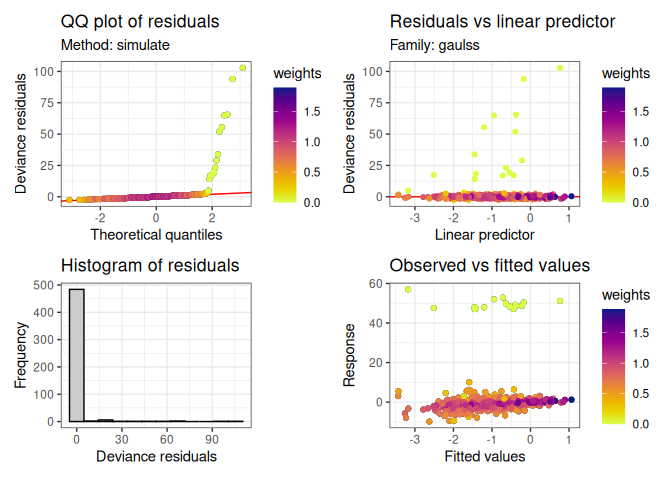
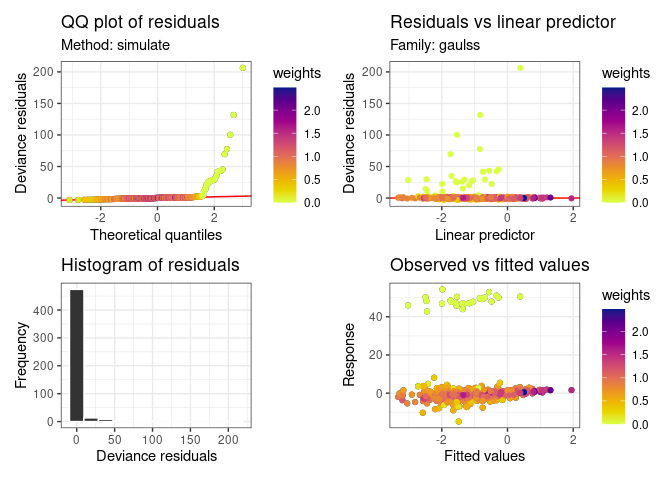
fixing up date on description and then updating readme github

diff --git a/README.md b/README.md
@@ -43,7 +43,7 @@ Simulate data from a double linear model with (average 5%) outliers in
 the response variable
 
 ``` r
-set.seed(062026)
+set.seed(112026)
 n <- 500
 p <- 10
 H <- abs(outer(1:p, 1:p, "-"))
@@ -65,7 +65,7 @@ Y[out==1] <- Y[out==1] + 50
 hist(Y, breaks = 20)
 ```
 
-<img src="man/figures/README-unnamed-chunk-3-1.png" width="100%" />
+<img src="man/figures/README-unnamed-chunk-3-1.png" alt="" width="100%" />
 
 Fit gamma divergence double linear models, select the gamma tuning
 parameter via cross-validation
@@ -93,7 +93,7 @@ runcv <- cv_gddlm(mu_formula = make_mu_formula,
 fit_gddglm_choosegamma <- gddlm(mu_formula = make_mu_formula,
                                 sigma_formula = make_sigma_formula,
                                 data = data.frame(response = Y, X[,-1]),
-                                gamma_tuning = runcv$gamma_optimal)
+                                gamma_tuning = runcv$gamma_optimal_mean)
 ```
 
 Demonstration of some of the functions available in the package
@@ -104,84 +104,84 @@ fit_gddglm_choosegamma %>%
 #> List of 16
 #>  $ call                : language gddlm(mu_formula = make_mu_formula, sigma_formula = make_sigma_formula,      data = data.frame(response = Y, X[, | __truncated__
 #>  $ mu_formula          :Class 'formula'  language response ~ X1 + X2 + X3 + X4 + X5 + X6 + X7 + X8 + X9 + X10
-#>   .. ..- attr(*, ".Environment")=<environment: 0x6510dee4e950> 
+#>   .. ..- attr(*, ".Environment")=<environment: 0x5f8ebbddca80> 
 #>  $ sigma_formula       :Class 'formula'  language ~X1 + X2 + X3 + X4 + X5 + X6 + X7 + X8 + X9 + X10
-#>   .. ..- attr(*, ".Environment")=<environment: 0x6510deeb18b8> 
+#>   .. ..- attr(*, ".Environment")=<environment: 0x5f8ebbe0c708> 
 #>  $ model               :'data.frame':    500 obs. of  11 variables:
-#>   ..$ response: num [1:500] -1.58 10.06 -1.85 -3.26 -2.56 ...
-#>   ..$ X1      : num [1:500] 1.892 0.674 -0.583 0.789 1.244 ...
-#>   ..$ X2      : num [1:500] 0.995 1.229 -0.407 -0.667 0.757 ...
-#>   ..$ X3      : num [1:500] 1.177 0.14 0.368 -0.295 0.785 ...
-#>   ..$ X4      : num [1:500] 0.873 -1.108 -0.143 -1.546 1.28 ...
-#>   ..$ X5      : num [1:500] 1.118 -0.349 0.742 -1.604 1.253 ...
-#>   ..$ X6      : num [1:500] 1.993 0.897 -0.146 -1.317 0.848 ...
-#>   ..$ X7      : num [1:500] 2.237 0.479 -0.235 -1.316 1.426 ...
-#>   ..$ X8      : num [1:500] 1.53 -1.364 -0.568 -1.973 -0.406 ...
-#>   ..$ X9      : num [1:500] 0.978 -0.65 -0.746 -2.823 -1.585 ...
-#>   ..$ X10     : num [1:500] 1.277 -2.057 0.391 -2.11 -0.594 ...
-#>  $ mu_coefficients     : Named num [1:11] -1.008 -0.714 0.795 -0.767 0.628 ...
+#>   ..$ response: num [1:500] -2.361 -2.709 -0.932 -0.971 -1.028 ...
+#>   ..$ X1      : num [1:500] 1.2748 1.0061 0.0843 0.3459 -0.8023 ...
+#>   ..$ X2      : num [1:500] 1.007 0.773 -0.757 -0.763 0.522 ...
+#>   ..$ X3      : num [1:500] 0.92 1.483 -0.559 -1.259 1.073 ...
+#>   ..$ X4      : num [1:500] 1.596 1.324 -1.009 -0.748 -0.457 ...
+#>   ..$ X5      : num [1:500] 1.0546 1.52736 0.00438 -0.37277 -0.53995 ...
+#>   ..$ X6      : num [1:500] 0.178 1.217 -0.401 -1.178 -0.904 ...
+#>   ..$ X7      : num [1:500] 0.285 0.66 0.108 -1.695 -0.124 ...
+#>   ..$ X8      : num [1:500] -0.283 0.155 0.581 -2.436 0.285 ...
+#>   ..$ X9      : num [1:500] 0.953 -0.427 0.431 -1.433 0.776 ...
+#>   ..$ X10     : num [1:500] 0.802 1.126 1.378 -1.335 0.806 ...
+#>  $ mu_coefficients     : Named num [1:11] -1.052 -1.04 1.134 -0.83 0.654 ...
 #>   ..- attr(*, "names")= chr [1:11] "(Intercept)" "X1" "X2" "X3" ...
-#>  $ sigma_coefficients  : Named num [1:11] 0.5218 0.5593 -0.0182 -0.0566 -0.4533 ...
+#>  $ sigma_coefficients  : Named num [1:11] 0.421 0.436 0.228 -0.175 -0.567 ...
 #>   ..- attr(*, "names")= chr [1:11] "(Intercept)" "X1" "X2" "X3" ...
-#>  $ mu_fitted           : num [1:500] -2 -1.59 -1.02 -3.17 -1 ...
-#>  $ sigma_fitted        : num [1:500] 3.55 5.61 1.58 6.03 2.98 ...
-#>  $ raw_residuals       : num [1:500] 0.4238 11.6476 -0.8268 -0.0924 -1.5523 ...
-#>  $ pearson_residuals   : num [1:500] 0.1194 2.077 -0.5239 -0.0153 -0.5205 ...
-#>  $ final_weights       : num [1:500] 0.893 0.358 1.133 0.744 0.907 ...
-#>  $ gamma_tuning        : num 0.35
-#>  $ gamma_divergence    : num -879
-#>  $ V_full              : num [1:22, 1:22] 1.02e-02 5.46e-03 1.14e-05 1.52e-04 -5.17e-03 ...
+#>  $ mu_fitted           : num [1:500] -0.857 -1.459 -2.023 -1.614 -0.727 ...
+#>  $ sigma_fitted        : num [1:500] 1.38 1.18 2.24 3.27 1.14 ...
+#>  $ raw_residuals       : num [1:500] -1.504 -1.25 1.091 0.644 -0.301 ...
+#>  $ pearson_residuals   : num [1:500] -1.089 -1.056 0.487 0.197 -0.263 ...
+#>  $ final_weights       : num [1:500] 1.003 1.082 0.999 0.894 1.351 ...
+#>  $ gamma_tuning        : num 0.4
+#>  $ gamma_divergence    : num -871
+#>  $ V_full              : num [1:22, 1:22] 0.009135 0.00229 0.001004 -0.000225 -0.006487 ...
 #>   ..- attr(*, "dimnames")=List of 2
 #>   .. ..$ : chr [1:22] "(Intercept)" "X1" "X2" "X3" ...
 #>   .. ..$ : chr [1:22] "(Intercept)" "X1" "X2" "X3" ...
-#>  $ V_mu_coefficients   : num [1:11, 1:11] 1.02e-02 5.46e-03 1.14e-05 1.52e-04 -5.17e-03 ...
+#>  $ V_mu_coefficients   : num [1:11, 1:11] 0.009135 0.00229 0.001004 -0.000225 -0.006487 ...
 #>   ..- attr(*, "dimnames")=List of 2
 #>   .. ..$ : chr [1:11] "(Intercept)" "X1" "X2" "X3" ...
 #>   .. ..$ : chr [1:11] "(Intercept)" "X1" "X2" "X3" ...
-#>  $ V_sigma_coefficients: num [1:11, 1:11] 2.00e-03 3.09e-04 2.73e-04 3.83e-05 -6.35e-04 ...
+#>  $ V_sigma_coefficients: num [1:11, 1:11] 1.80e-03 1.02e-03 -2.04e-03 1.96e-03 4.92e-05 ...
 #>   ..- attr(*, "dimnames")=List of 2
 #>   .. ..$ : chr [1:11] "(Intercept)" "X1" "X2" "X3" ...
 #>   .. ..$ : chr [1:11] "(Intercept)" "X1" "X2" "X3" ...
 #>  - attr(*, "class")= chr "gddlm"
 
 summary(fit_gddglm_choosegamma)
-#> Double linear model fitted using gamma divergence with gamma = 0.35 
+#> Double linear model fitted using gamma divergence with gamma = 0.4 
 #> Formula:
 #> response ~ X1 + X2 + X3 + X4 + X5 + X6 + X7 + X8 + X9 + X10
-#> <environment: 0x6510dee4e950>
+#> <environment: 0x5f8ebbddca80>
 #> ~X1 + X2 + X3 + X4 + X5 + X6 + X7 + X8 + X9 + X10
-#> <environment: 0x6510deeb18b8>
+#> <environment: 0x5f8ebbe0c708>
 #> 
 #> Parametric coefficients (mu and sigma):
 #>                    Estimate Std. Error z value Pr(>|z|)    
-#> mu_(Intercept)    -1.008060   0.101094  -9.971  < 2e-16 ***
-#> mu_X1             -0.713515   0.095948  -7.436 1.03e-13 ***
-#> mu_X2              0.795016   0.105147   7.561 4.00e-14 ***
-#> mu_X3             -0.767158   0.115109  -6.665 2.65e-11 ***
-#> mu_X4              0.628127   0.125624   5.000 5.73e-07 ***
-#> mu_X5              0.319577   0.123739   2.583 0.009804 ** 
-#> mu_X6             -0.087774   0.124295  -0.706 0.480080    
-#> mu_X7             -0.127017   0.116278  -1.092 0.274678    
-#> mu_X8             -0.018457   0.120650  -0.153 0.878416    
-#> mu_X9              0.036340   0.120255   0.302 0.762510    
-#> mu_X10             0.012260   0.098188   0.125 0.900630    
-#> sigma_(Intercept)  0.521790   0.044774  11.654  < 2e-16 ***
-#> sigma_X1           0.559314   0.064404   8.684  < 2e-16 ***
-#> sigma_X2          -0.018241   0.079314  -0.230 0.818108    
-#> sigma_X3          -0.056611   0.079691  -0.710 0.477471    
-#> sigma_X4          -0.453271   0.080216  -5.651 1.60e-08 ***
-#> sigma_X5           0.056826   0.090392   0.629 0.529571    
-#> sigma_X6          -0.066878   0.085940  -0.778 0.436458    
-#> sigma_X7           0.291493   0.084689   3.442 0.000578 ***
-#> sigma_X8          -0.344956   0.088504  -3.898 9.71e-05 ***
-#> sigma_X9           0.004291   0.081395   0.053 0.957959    
-#> sigma_X10          0.084587   0.064117   1.319 0.187081    
+#> mu_(Intercept)    -1.051772   0.095577 -11.004  < 2e-16 ***
+#> mu_X1             -1.039828   0.087575 -11.874  < 2e-16 ***
+#> mu_X2              1.133576   0.118410   9.573  < 2e-16 ***
+#> mu_X3             -0.830221   0.124197  -6.685 2.31e-11 ***
+#> mu_X4              0.653921   0.142897   4.576 4.74e-06 ***
+#> mu_X5              0.243204   0.106373   2.286 0.022235 *  
+#> mu_X6             -0.243222   0.169397  -1.436 0.151055    
+#> mu_X7             -0.069251   0.112345  -0.616 0.537620    
+#> mu_X8              0.120493   0.121449   0.992 0.321136    
+#> mu_X9             -0.093130   0.104630  -0.890 0.373418    
+#> mu_X10             0.035339   0.082598   0.428 0.668769    
+#> sigma_(Intercept)  0.420895   0.042391   9.929  < 2e-16 ***
+#> sigma_X1           0.436283   0.080195   5.440 5.32e-08 ***
+#> sigma_X2           0.228361   0.114474   1.995 0.046056 *  
+#> sigma_X3          -0.174513   0.111419  -1.566 0.117282    
+#> sigma_X4          -0.567367   0.086588  -6.552 5.66e-11 ***
+#> sigma_X5           0.074916   0.087645   0.855 0.392683    
+#> sigma_X6          -0.067892   0.106915  -0.635 0.525422    
+#> sigma_X7           0.320068   0.088858   3.602 0.000316 ***
+#> sigma_X8          -0.231268   0.084389  -2.740 0.006135 ** 
+#> sigma_X9           0.003943   0.085225   0.046 0.963101    
+#> sigma_X10         -0.056193   0.070130  -0.801 0.422976    
 #> ---
 #> Signif. codes:  0 '***' 0.001 '**' 0.01 '*' 0.05 '.' 0.1 ' ' 1
 #> 
 #> 
 #> Residual degrees of freedom: 478 
-#> Gamma divergence: -878.8318
+#> Gamma divergence: -870.7739
 
 appraise(fit_gddglm_choosegamma)
 #> Warning: `aes_string()` was deprecated in ggplot2 3.0.0.
@@ -194,54 +194,54 @@ appraise(fit_gddglm_choosegamma)
 #> generated.
 ```
 
-<img src="man/figures/README-unnamed-chunk-5-1.png" width="100%" />
+<img src="man/figures/README-unnamed-chunk-5-1.png" alt="" width="100%" />
 
 ``` r
 
 coef(fit_gddglm_choosegamma)
 #> (Intercept)          X1          X2          X3          X4          X5 
-#> -1.00805981 -0.71351490  0.79501588 -0.76715837  0.62812689  0.31957701 
+#> -1.05177231 -1.03982829  1.13357610 -0.83022127  0.65392125  0.24320395 
 #>          X6          X7          X8          X9         X10 
-#> -0.08777413 -0.12701708 -0.01845680  0.03633964  0.01226032
+#> -0.24322213 -0.06925101  0.12049300 -0.09313003  0.03533871
 coef(fit_gddglm_choosegamma, type = "sigma")
 #>  (Intercept)           X1           X2           X3           X4           X5 
-#>  0.521789606  0.559313762 -0.018240721 -0.056610769 -0.453271344  0.056825892 
+#>  0.420894849  0.436283286  0.228360716 -0.174513315 -0.567367015  0.074915934 
 #>           X6           X7           X8           X9          X10 
-#> -0.066877656  0.291493211 -0.344956407  0.004290749  0.084586991
+#> -0.067892115  0.320068324 -0.231268126  0.003942675 -0.056193169
 
 simulate(fit_gddglm_choosegamma, nsim = 10) %>% 
     str
 #> 'data.frame':    500 obs. of  10 variables:
-#>  $ sim_1 : num  -2.38 -7.5 -2.93 -2.79 -2.11 ...
-#>  $ sim_2 : num  2.28 2.11 -3.84 11.19 1.87 ...
-#>  $ sim_3 : num  -11.39 2.15 -2.44 -11.69 -6.34 ...
-#>  $ sim_4 : num  -1.006 -9.068 -2.774 0.548 0.774 ...
-#>  $ sim_5 : num  -2.56 1.52 -1.45 -5.18 -5.17 ...
-#>  $ sim_6 : num  -5.80865 -10.07043 -0.00196 -6.77687 -3.1056 ...
-#>  $ sim_7 : num  -2.848 -4.076 -0.102 1.929 -1.035 ...
-#>  $ sim_8 : num  -0.316 -11.571 1.574 -11.66 -2.657 ...
-#>  $ sim_9 : num  -1.19 2.89 1.22 -5.32 3.23 ...
-#>  $ sim_10: num  -0.171 -6.551 -0.496 -5.883 2.888 ...
-#>  - attr(*, "seed")= int [1:626] 10403 80 -1437186727 2126329572 -488913071 -86937626 -1577149416 1537399949 -1012289428 1385622840 ...
+#>  $ sim_1 : num  -1.75 -1.41 -5.39 -3.94 -1.06 ...
+#>  $ sim_2 : num  -0.00866 -1.88531 0.05362 -1.70807 0.70808 ...
+#>  $ sim_3 : num  -1.324 -0.814 0.889 -8.047 0.414 ...
+#>  $ sim_4 : num  -3.3469 0.0211 0.7229 -0.9174 -2.66 ...
+#>  $ sim_5 : num  -0.2126 -1.7837 -0.0696 5.2576 -1.5093 ...
+#>  $ sim_6 : num  -1.676 -1.164 -2.434 -5.23 0.268 ...
+#>  $ sim_7 : num  -1.847 -0.466 -3.129 0.267 -1.458 ...
+#>  $ sim_8 : num  -1.598 -1.397 -6.67 -0.339 -1.259 ...
+#>  $ sim_9 : num  -1.68 -3.215 0.103 -0.344 0.544 ...
+#>  $ sim_10: num  -0.76 -0.559 -1.284 -3.502 0.681 ...
+#>  - attr(*, "seed")= int [1:626] 10403 80 638472023 -924926401 -1111118522 1792087268 1698227145 280349103 1720174138 -959805469 ...
 
 predict(fit_gddglm_choosegamma, predictor = "mu", se.fit = TRUE) %>% 
     head
 #>          fit    se.fit     lower      upper
-#> 1 -2.0005503 0.2485797 -2.487758 -1.5133431
-#> 2 -1.5898385 0.3730717 -2.321046 -0.8586313
-#> 3 -1.0199697 0.1931697 -1.398575 -0.6413640
-#> 4 -3.1685645 0.3203783 -3.796494 -2.5406345
-#> 5 -1.0045116 0.2791003 -1.551538 -0.4574850
-#> 6 -0.9842505 0.3200514 -1.611540 -0.3569614
+#> 1 -0.8565576 0.2455725 -1.337871 -0.3752443
+#> 2 -1.4589825 0.1755096 -1.802975 -1.1149899
+#> 3 -2.0233802 0.1683308 -2.353303 -1.6934579
+#> 4 -1.6141223 0.2525456 -2.109103 -1.1191420
+#> 5 -0.7272791 0.1996628 -1.118611 -0.3359471
+#> 6 -0.2980597 0.2295237 -0.747918  0.1517985
 predict(fit_gddglm_choosegamma, predictor = "sigma", se.fit = TRUE) %>% 
     head
-#>         fit   se.fit     lower    upper
-#> 1 3.5479285 1.157207 2.6649635 4.723441
-#> 2 5.6077849 1.238756 3.6858907 8.531791
-#> 3 1.5782589 1.128559 1.2451817 2.000432
-#> 4 6.0256004 1.203386 4.1918896 8.661454
-#> 5 2.9820786 1.187822 2.1281830 4.178585
-#> 6 0.9294103 1.254137 0.5962867 1.448638
+#>        fit   se.fit     lower    upper
+#> 1 1.381538 1.178141 1.0018875 1.905052
+#> 2 1.183412 1.179174 0.8567342 1.634654
+#> 3 2.241801 1.136381 1.7449065 2.880197
+#> 4 3.267212 1.148173 2.4920964 4.283412
+#> 5 1.144709 1.200304 0.8003628 1.637205
+#> 6 1.534821 1.175897 1.1172150 2.108526
 ```
 
 # If you find any bugs and issues…
